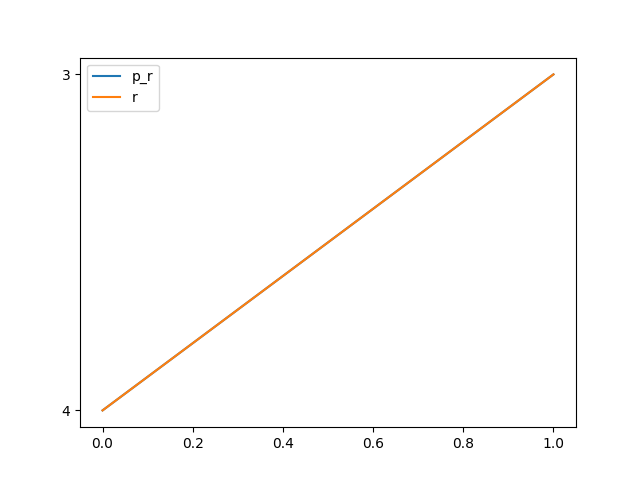
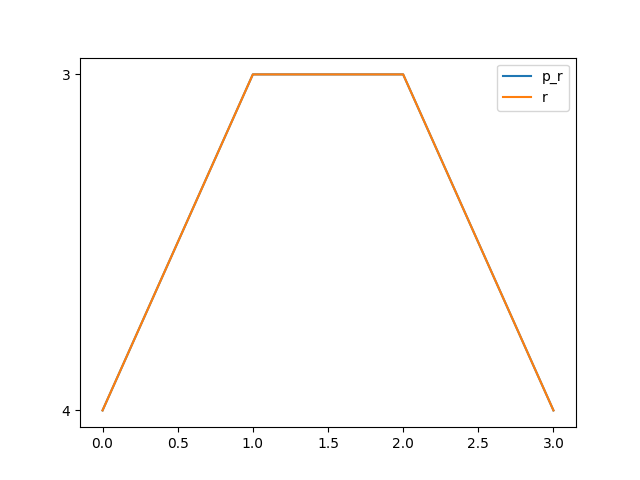
0x0003

diff --git a/benchmark.md b/benchmark.md
@@ -6,7 +6,9 @@ Synthesising 0x0001 pexact:152 r=3 exact:152 r=3
 
 Synthesising 0x0002 pexact:152 r=3 exact:152 r=3
 
-<img src=benchmark_r0.png width=400 heigth=400>
+Synthesising 0x0003 pexact:182 r=4 exact:312 r=4
 
-<img src=benchmark_s0.png width=400 heigth=400>
+<img src=benchmark_r1.png width=400 heigth=400>
+
+<img src=benchmark_s1.png width=400 heigth=400>
 
